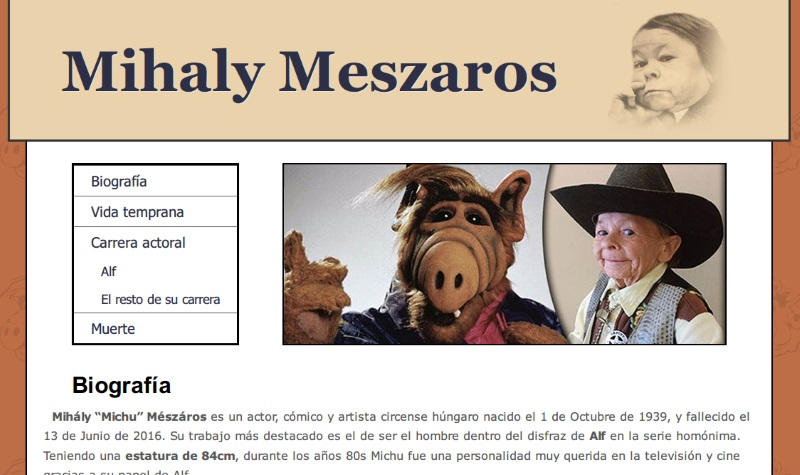
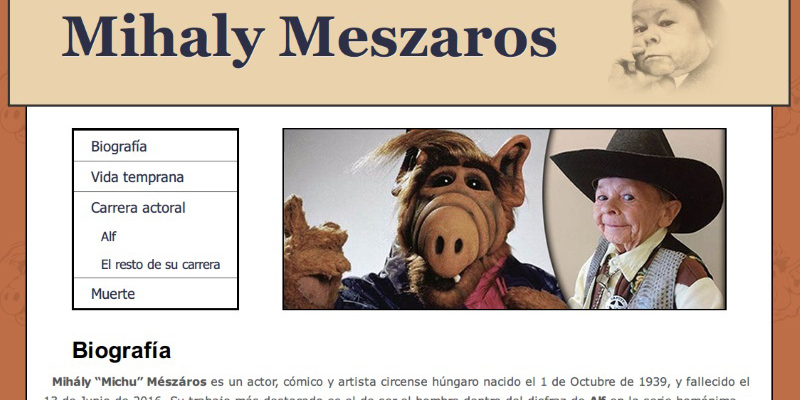
Arreglado layout en mobile y sacados modales

Changed region(s): [[0.0, 0.0, 1.0, 1.0], [0.3438, 0.48, 0.9062, 0.78], [0.75, 0.42, 0.7812, 0.45]]

diff --git a/pages/cv/index.html b/pages/cv/index.html
@@ -63,30 +63,9 @@
 
     <h1>Proyectos universitarios</h1>
     <ul>
-      <li><a onclick=
-        "
-        document.getElementById('modal1').style.display='block'; document.getElementsByTagName('body').style.overflow='hidden';
-        "
-        >
+      <li><a href="http://emilianotalamo.github.io/proyectos/michu" target="_blank">
         <img src="rsc/links/michu.png" alt="Mihaly Meszaros" width="128"><span class="pop">Mihaly Meszaros</span></a></li>
     </ul>
-
-    <div id="modal1" class="modal">
-      <div class="modalcont">
-        <span class="x"></span>
-	      <h2>Mihaly Meszaros</h2>
-        <img src="rsc/modals/1/preview.jpg" alt="">
-        <p>La web consta en un artículo hecho en XHTML estricto y CSS validado por los estándares de la W3C a partir de un tema asignado aleatoriamente. La información tuvo que ser recopilada desde cero y clasificada en diferentes temas para abordarlos en la web y permitir su navegación entre ellos con el uso de anclas.</p>
-        <img src="rsc/modals/1/w3c.jpg" alt="">
-        <p>Una vez recabada la información, se procedió a pensar en el diseño de la web. Debía contar con un header, un cuerpo principal donde se ubicara la información y un footer. Primero se bocetó el esqueleto de la página en un wireframe hecho a mano. Luego, con herramientas de diseño avanzadas se crearon todos los assets, paletas de colores y la forma visual final de la web.</p>
-        <img src="rsc/modals/1/wf.jpg" alt="">
-        <p>Recién allí fue cuando se empezó con el código, basándose a partir de los bocetos y wireframes realizados, se creó toda la web utilizando y respetando las reglas semánticas que ofrece HTML. También se utilizó el método de cascada de CSS para lograr un diseño más eficiente.</p>
-        <div class="modalfoot">
-            <button onclick="document.getElementById('modal1').style.display='none';">Cerrar</button>
-            <button>Ir a la web</button>
-        </div>
-      </div>
-    </div>
 
 </div>
 

diff --git a/pages/cv/links.css b/pages/cv/links.css
@@ -68,85 +68,3 @@ a:hover .pop{
   z-index: 3;
   opacity: 0.95;
 }
-
-.modal {
-    display: none;
-    position: fixed;
-    z-index: 1;
-    left: 0;
-    top: 0;
-    width: 100%;
-    height: 100%;
-    overflow: auto;
-    background-color: rgb(0,0,0);
-    background-color: rgba(0,0,0,0.4);
-}
-
-.modalfoot{
-  position: sticky;
-  bottom: 0;
-  background-color: #BF4D5E;
-  width: 100%;
-  padding: 0;
-  margin: auto;
-}
-
-.modalclose{
-  position: relative;
-}
-
-.modalgoto{
-  position: absolute;
-  right: 30px;
-}
-
-.modalcont{
-  background-color: #E5E8DA;
-  margin: 50px auto;
-  padding: 20px;
-  border: 5px solid #CCCEC2;
-  border-radius: 5px;
-  width: 850px;
-  box-shadow: 0 4px 8px 0 rgba(0,0,0,0.2),0 6px 20px 0 rgba(0,0,0,0.19);
-  -webkit-animation-name: animatetop;
-  -webkit-animation-duration: 0.4s;
-  animation-name: animatetop;
-  animation-duration: 0.4s;
-  display: block;
-}
-
-.modalcont h2{
-  margin: 10px -20px 20px -20px;
-  background-color: #BF4D5E;
-  background-repeat: no-repeat;
-  line-height: 170%;
-  background-size: contain;
-  background-position: -32px;
-  font-family: gidole;
-  font-size: 32pt;
-  color: #E5E8DA;
-  padding-left: 30px;
-}
-
-.modalcont img{
-  display: block;
-  margin: auto;
-  border: 2px solid #CCCEC2;
-  padding: 3px;
-  border-radius: 3px;
-}
-
-.modalcont p{
- font-family: gidole;
- font-size: 14pt;
-}
-
-@-webkit-keyframes animatetop {
-    from {top: -300px; opacity: 0}
-    to {top: 0; opacity: 1}
-}
-
-@keyframes animatetop {
-    from {top: -300px; opacity: 0}
-    to {top: 0; opacity: 1}
-}

diff --git a/pages/cv/info.css b/pages/cv/info.css
@@ -36,7 +36,7 @@
 
 #info ul{
   margin-top: 30px;
-  margin-left: 640px;
+  margin-left: 590px;
   margin-bottom: 50px;
   z-index: 3
 }
